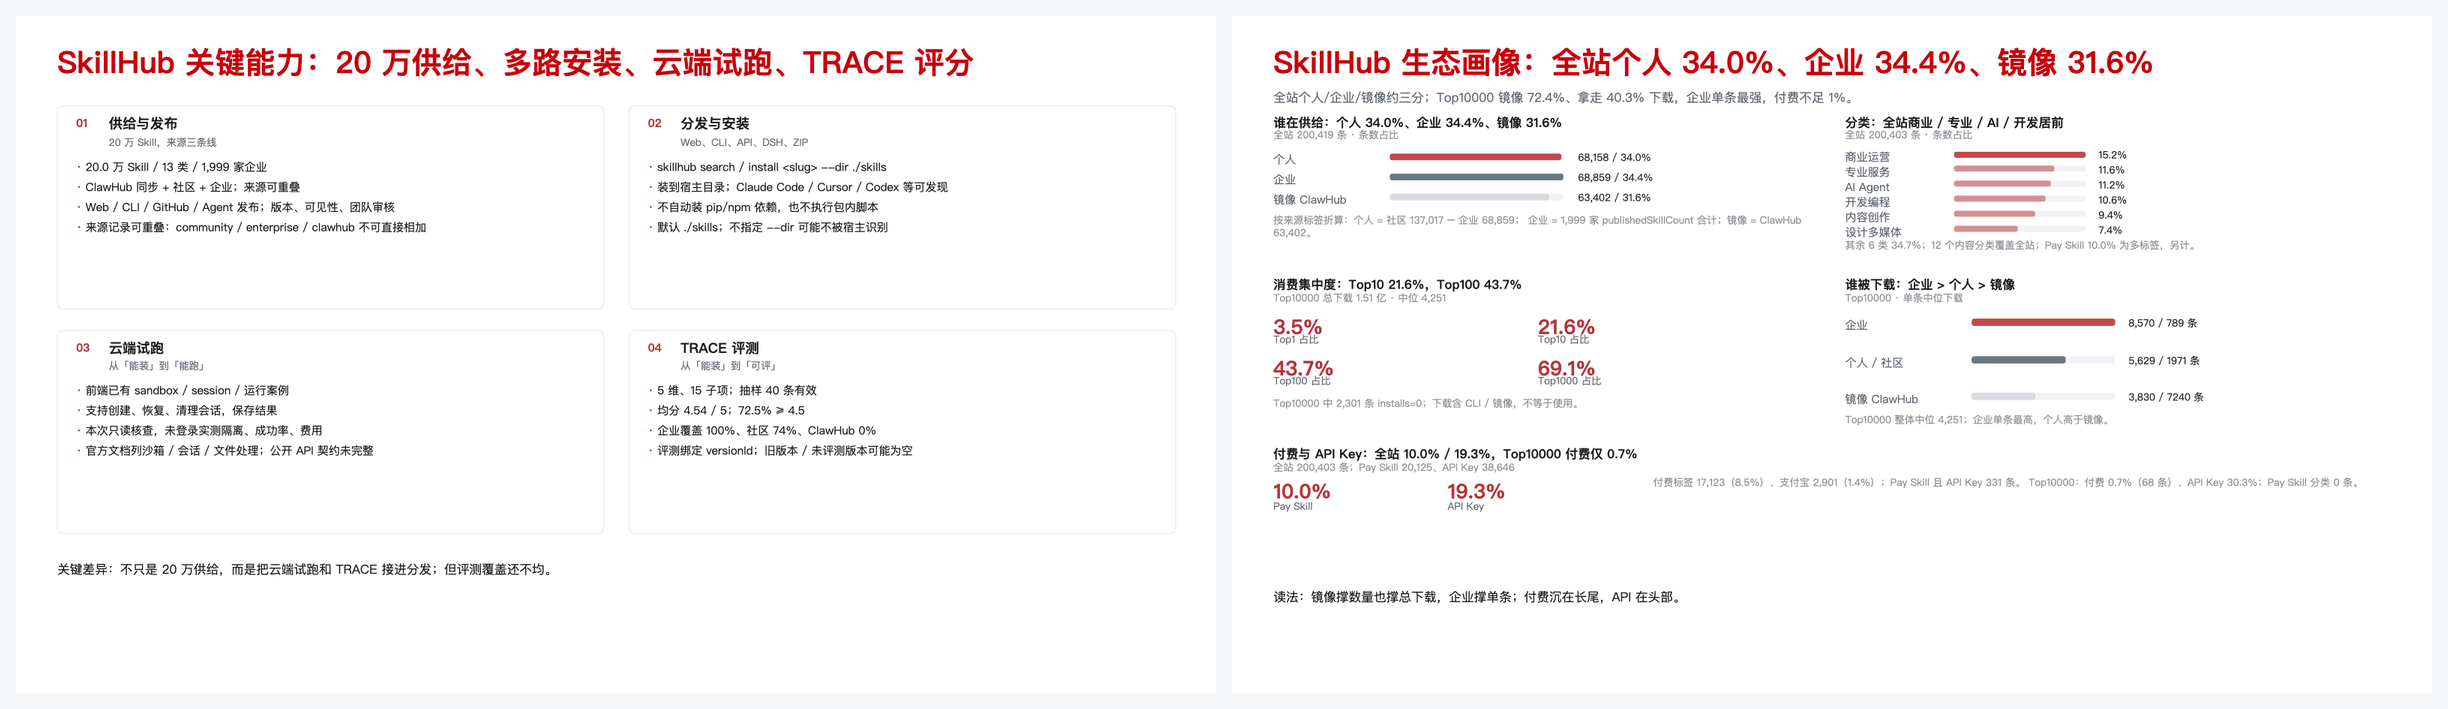
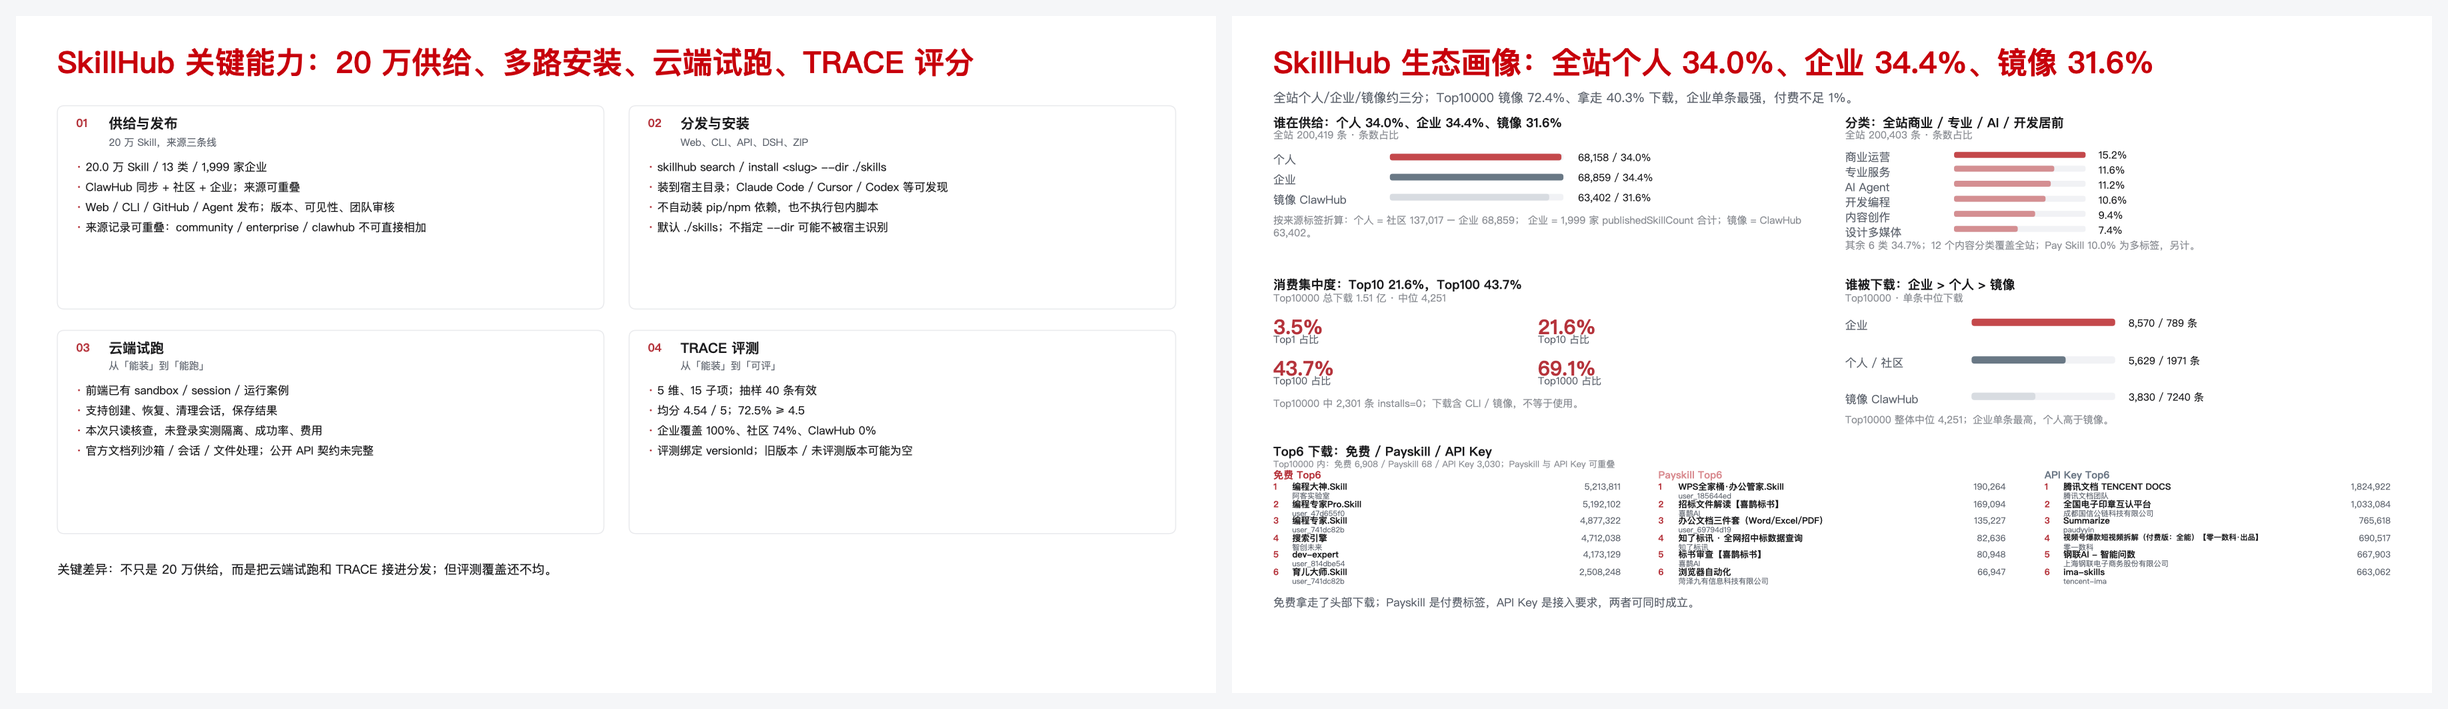
Add free, Payskill, and API Key top six to SkillHub page

diff --git a/skill-final-v1-manifest.md b/skill-final-v1-manifest.md
@@ -14,7 +14,7 @@
 - **Skill 资产生命周期页重做为第 1 页**：生产 / 分发 / 安装 / 使用四段，每段给出可执行动作、检查点与产物，并保留闭环回线；结合智果园示例（AI 资产广场上架分发、CodeArts Agent 安装使用）。原第 5 页删除，总页数 19。
 - **第一页按 `skill-lifecycle-summary.md` 的“关键动作”重新核对**：每段只把“动作”放入动作层，检查点与产物另列；生产段把“定任务 / 写方法 / 配资源并验证”拆开，边界放入“定任务”和检查点，样例与评测记录放入产物，不再把“留样例和边界”当作与前两步并列的第三个动作。动作层补入 `$skill-creator`、Git/ZIP、`npx skills add`、`/pdf-processing` 等可执行动作；`$skill-creator` 作为一条起稿路径，不写成唯一方式。
 - **最后两页按统一版式重排**：第 18 页先总结阿里/腾讯两条商业化路径（对比表 + 三点判断），第 19 页给出智果园的四条启示、首期路径与验收口径。
-- **SkillHub 从 3 页合并为 2 页**：第 3 页“关键能力”（供给与发布 / 分发安装 / 云端试跑 / TRACE）；第 4 页“生态画像”：供给/分类/付费看全站，消费与“谁被下载”中位看 Top10000；个人/企业为按来源标签折算，Top10000 不等于全站。
+- **SkillHub 从 3 页合并为 2 页**：第 3 页“关键能力”（供给与发布 / 分发安装 / 云端试跑 / TRACE）；第 4 页“生态画像”：供给/分类看全站，消费与“谁被下载”中位看 Top10000；新增免费 / Payskill / API Key 三类 Top6 下载榜；个人/企业为按来源标签折算，Top10000 不等于全站。
 - **魔搭合并为一页**：上半部分是“关键能力洞察”（发布 / 使用 / 试运行），下半部分是“生态画像”的 4 项对比：来源结构（GitHub / 其他市场 / 外部网站 / 个人上传）/ 月度上架（集中导入）/ 类目分布 / 四类来源 Top6（24 个，显示名/所有者/下载量）；已按 2026-10-24 全量 source_url 统计更新。
 - **标题已回退**：恢复上一版标题；第一页的动作 / 检查 / 产物内容保留。
 - 例外：KPI 数字保留展示字号；6.5–9.5 pt 的图注、单位、表注保留原字号，避免密集卡片溢出。若要求所有文字严格 10/12，需要重排或拆页。
